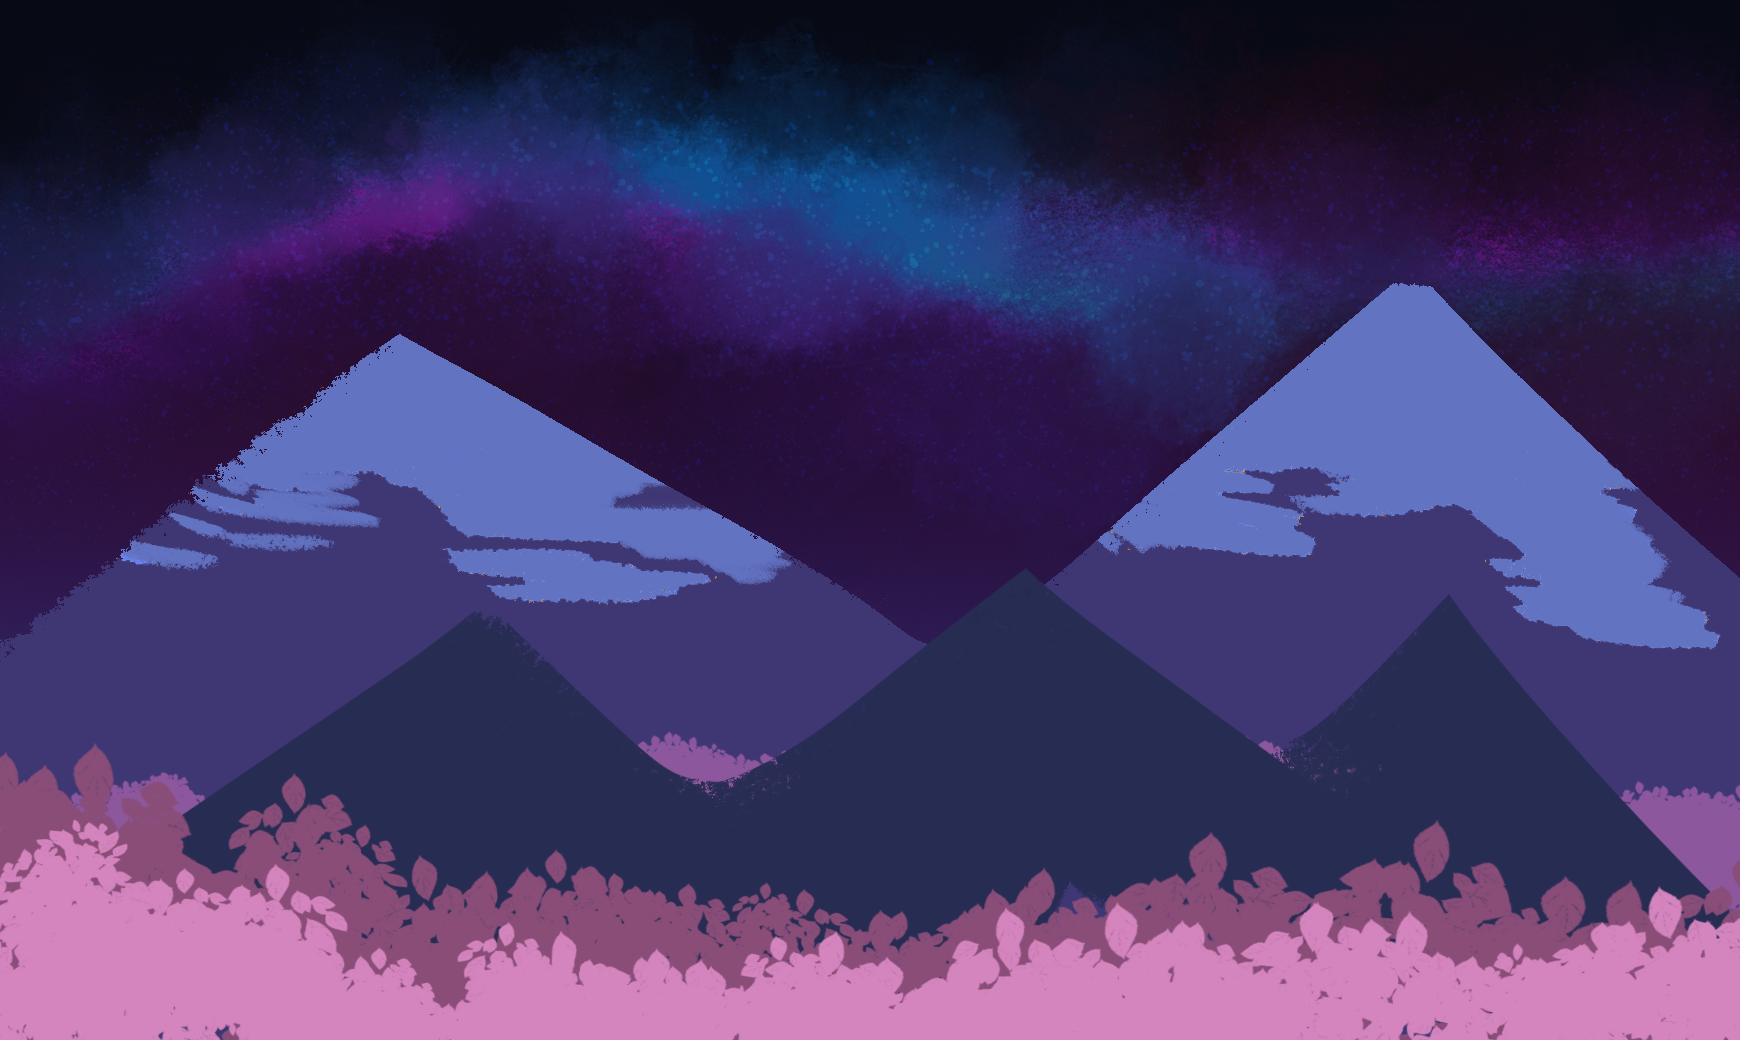
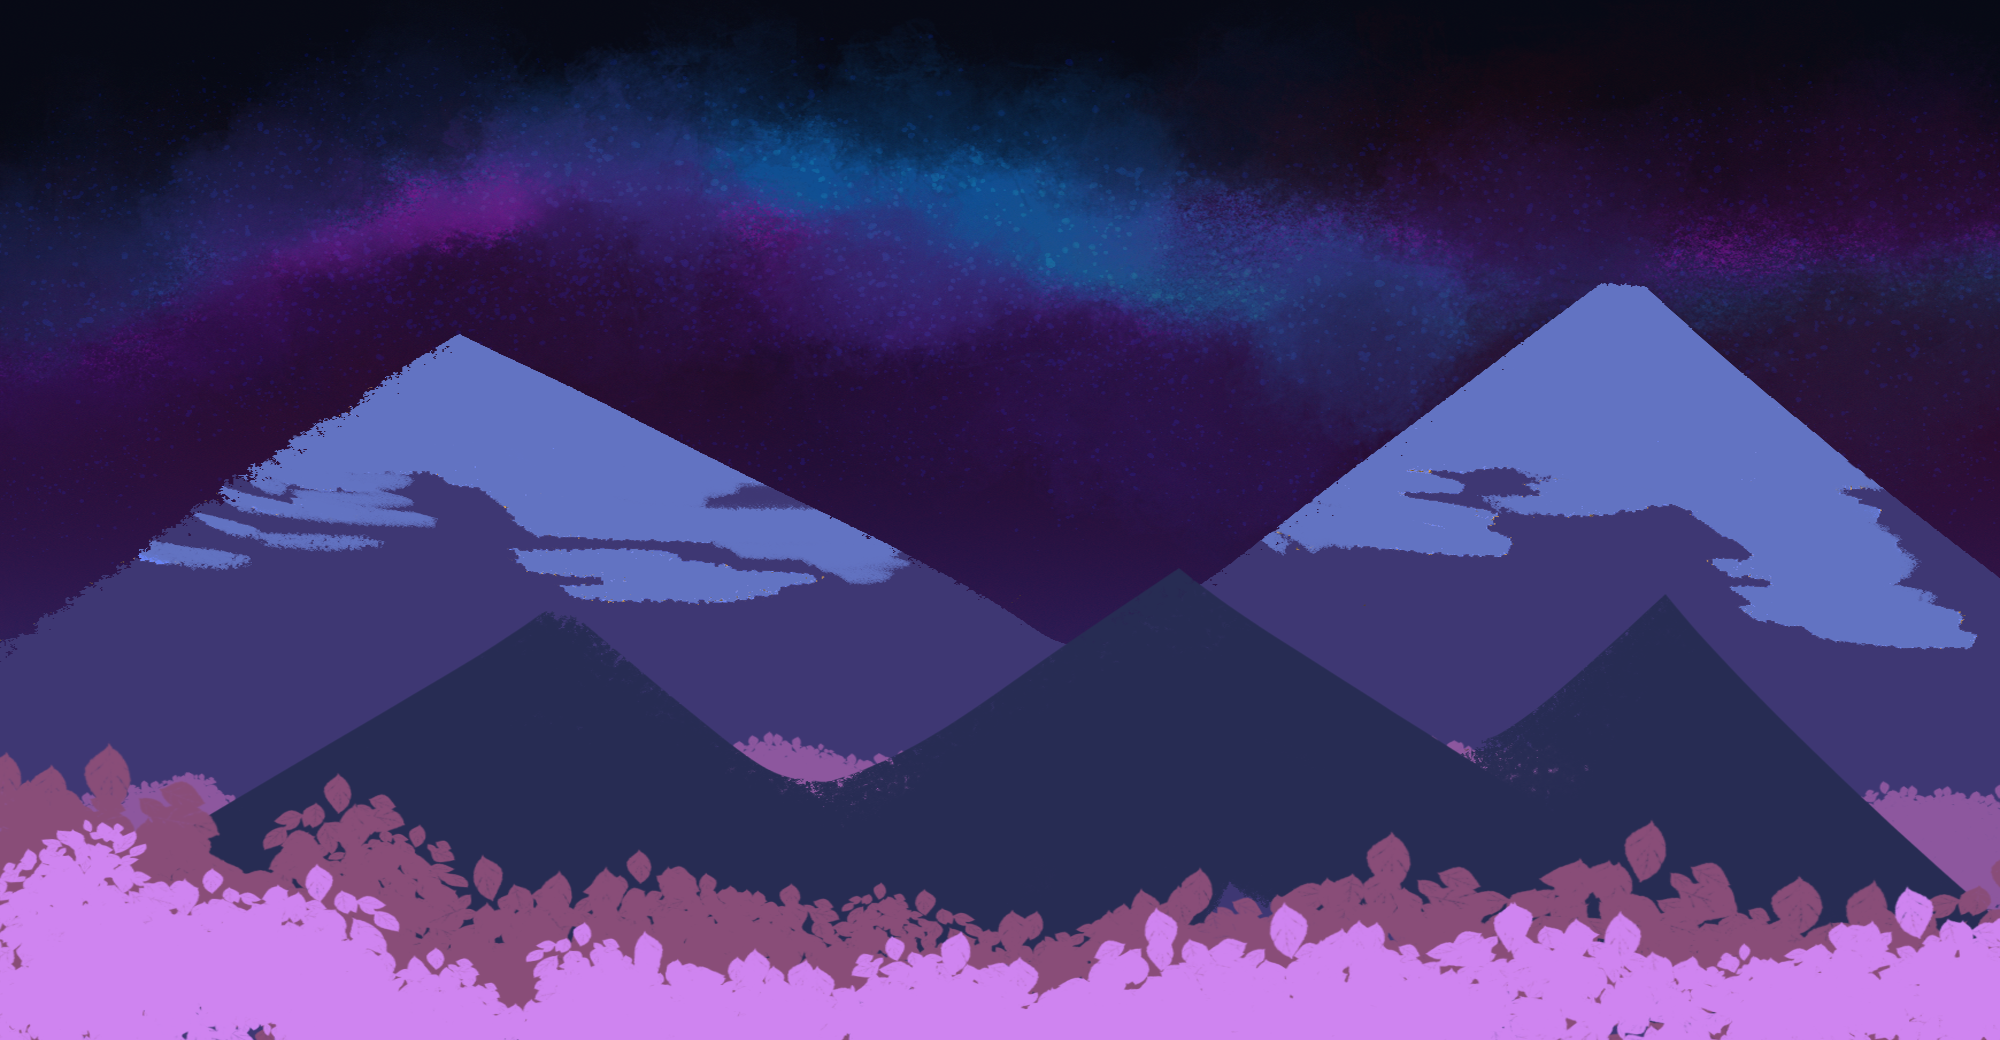
p

Changed region(s): [[0.0, 0.7692, 1.0, 1.0]]

diff --git a/js/level003.js b/js/level003.js
@@ -3,9 +3,9 @@ import { Player2 } from "./player2.js";
 import { Meteors } from "./meteors.js";
 import { Harpon } from "./harpon.js";
 
-export class Level002 extends Phaser.Scene {
+export class Level003 extends Phaser.Scene {
     constructor() {
-        super('Level002');
+        super('Level003');
 
         this.countHarpon = 0;
         this.velocity = 100;
@@ -20,7 +20,7 @@ export class Level002 extends Phaser.Scene {
     }
 
     create() {
-        this.add.image(0, 0, 'background2').setOrigin(0).setScale(5);
+        this.add.image(0, 0, 'background3').setOrigin(0).setScale(5);
 
         this.player = new Player(
             this,
@@ -38,7 +38,7 @@ export class Level002 extends Phaser.Scene {
 
         this.input.manager.enabled = true;
         this.input.once('pointerdown', function () {
-            this.scene.start('Level003');
+            this.scene.start('Level001');
         }, this);
     }
 

diff --git a/js/game.js b/js/game.js
@@ -1,5 +1,6 @@
 import { Level001 } from "./level001.js";
 import { Level002 } from "./level002.js";
+import { Level003 } from "./level003.js";
 import { LoadScene } from "./loadscene.js";
 
 const config = {
@@ -8,7 +9,7 @@ const config = {
     type: Phaser.AUTO,
     parent: 'game-canvas',
     backgroundColor: '#ffff',
-    scene: [LoadScene, Level001, Level002],
+    scene: [LoadScene, Level001, Level002, Level003],
     physics: {
         default: 'arcade',
         arcade: {

diff --git a/js/loadscene.js b/js/loadscene.js
@@ -6,6 +6,8 @@ export class LoadScene extends Phaser.Scene {
     preload() {
         
         this.load.image('background', './images/bg.png');
+        this.load.image('background2', './images/bg2.png');
+        this.load.image('background3', './images/bg3.png');
 
         this.load.image('harpon', './images/harpon.png');
 

diff --git a/js/level001.js b/js/level001.js
@@ -49,9 +49,7 @@ export class Level001 extends Phaser.Scene {
 
         this.input.manager.enabled = true;
         this.input.once('pointerdown', function () {
-
-            this.scene.start('sceneB');
-
+            this.scene.start('Level002');
         }, this);
     }
 
